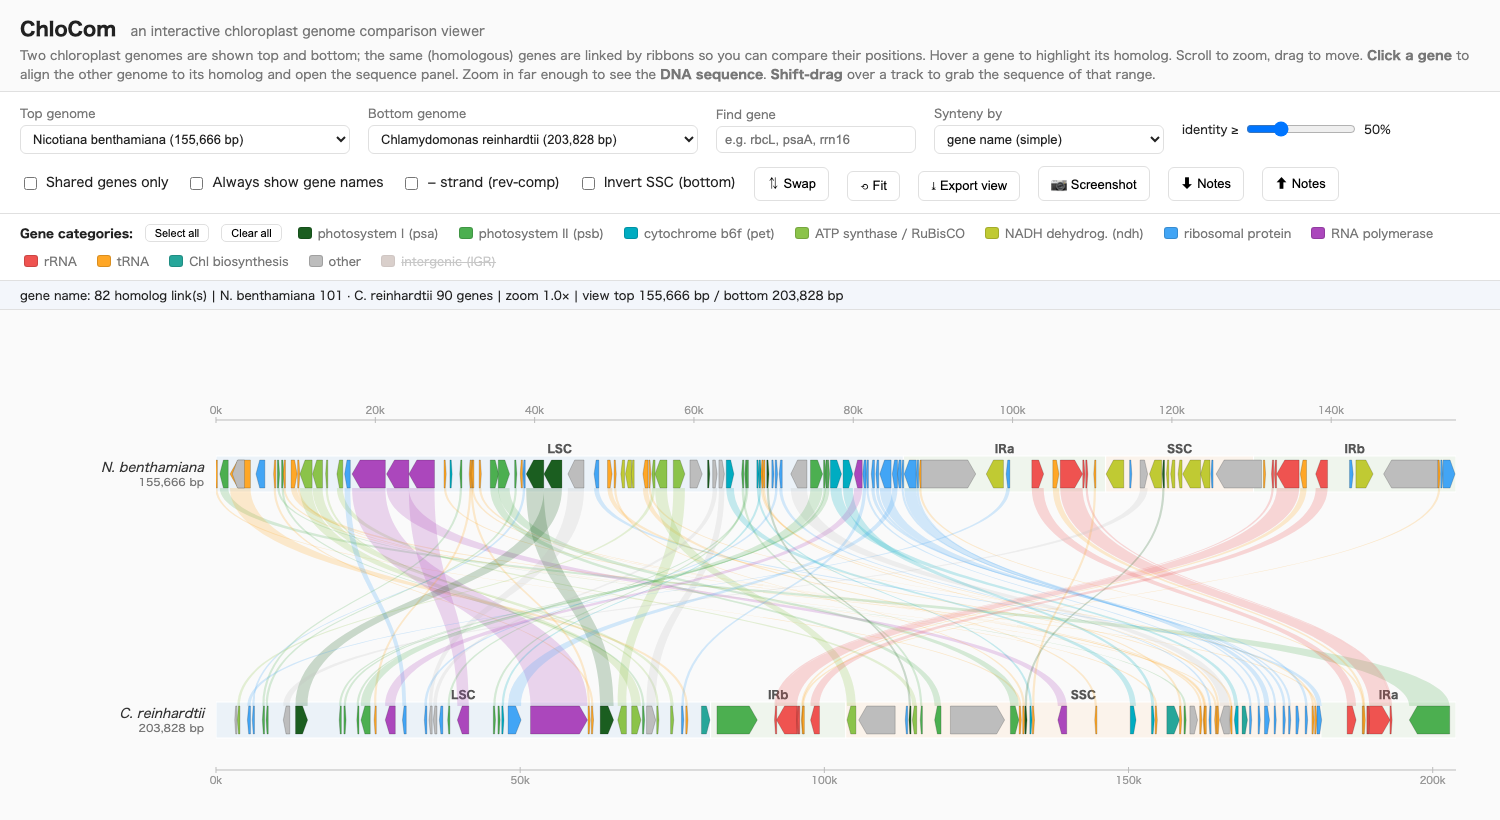
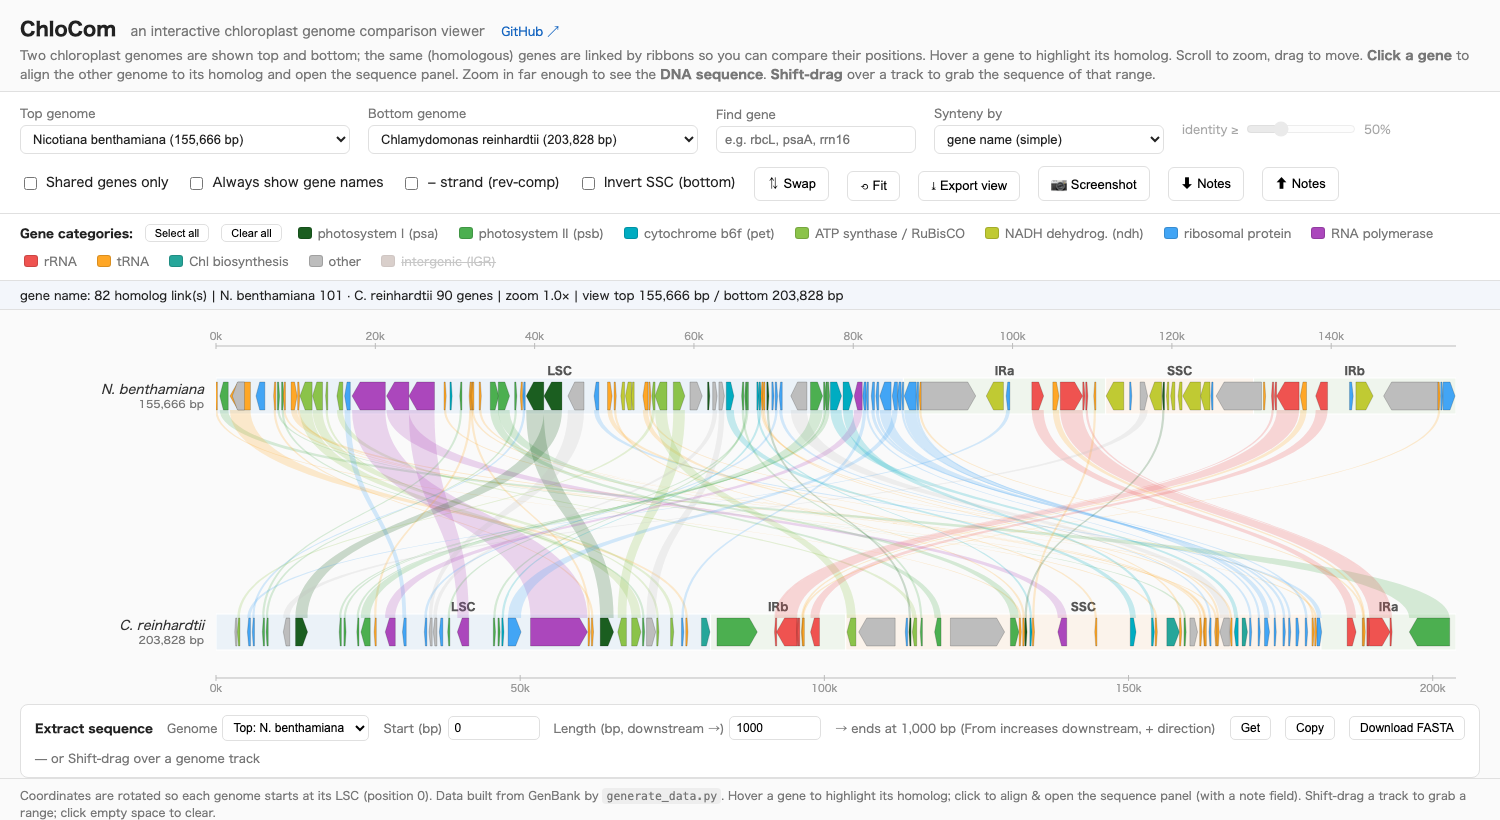
Add files via upload

diff --git a/app.js b/app.js
@@ -24,8 +24,9 @@ const REGION_COLOR = { LSC: '#cfe2f3', SSC: '#fce5cd', IRa: '#d9ead3', IRb: '#d9
 const BASE_COLOR = { A: '#2e7d32', C: '#1565c0', G: '#ef6c00', T: '#c62828', U: '#c62828', N: '#999' };
 const COMP = { A: 'T', T: 'A', G: 'C', C: 'G', U: 'A', N: 'N' };
 
-const L = { ml: 196, mr: 24, topAxisY: 102, topSeqY: 122, topY: 142, geneH: 28,
-            botY: 388, botSeqY: 430, botAxisY: 452 };
+const L = { ml: 196, mr: 24, topAxisY: 28, topSeqY: 48, topY: 64, geneH: 28,
+            botY: 300, botSeqY: 342, botAxisY: 360 };
+const SVG_H = 380;             // SVG の高さ（上下の余白を詰めた）
 const SEQ_MIN_PX = 7;
 const shortName = d => d.replace(/\s*\(.*/, '').replace(/^(\w)\w+\s+/, '$1. ');
 
@@ -154,7 +155,7 @@ function ribbonPath(xt0, xt1, xb0, xb1, ytop, ybot) {
 function render() {
   computeLinks();
   while (svg.firstChild) svg.removeChild(svg.firstChild);
-  const W = svg.clientWidth, H = 560;
+  const W = svg.clientWidth, H = SVG_H;
   svg.setAttribute('viewBox', `0 0 ${W} ${H}`);
   const top = GENOME_DATA[state.top], bot = GENOME_DATA[state.bot];
   if (!top || !bot) return;
@@ -439,7 +440,7 @@ const SVG_CSS = `
 .base{font:600 12px ui-monospace,monospace}.selrect{fill:rgba(21,101,192,.16);stroke:#1565c0;stroke-width:1}
 .notemark{font:11px sans-serif;fill:#e65100}text{font-family:sans-serif}`;
 function saveScreenshot() {
-  const W = svg.clientWidth, H = 560, scale = 2;
+  const W = svg.clientWidth, H = SVG_H, scale = 2;
   const clone = svg.cloneNode(true);
   clone.setAttribute('xmlns', NS); clone.setAttribute('width', W); clone.setAttribute('height', H);
   const st = document.createElementNS(NS, 'style'); st.textContent = SVG_CSS; clone.insertBefore(st, clone.firstChild);

diff --git a/style.css b/style.css
@@ -47,7 +47,7 @@ footer .ghlink { white-space: nowrap; }
 #statusbar { padding: 5px 20px; font-size: 12px; color: var(--text); background: #f3f6fb; border-bottom: 1px solid var(--line); }
 
 #viewer { position: relative; padding: 8px 20px 0; }
-#svg { width: 100%; height: 560px; display: block; cursor: grab; user-select: none; touch-action: none; }
+#svg { width: 100%; height: 380px; display: block; cursor: grab; user-select: none; touch-action: none; }
 #svg.dragging { cursor: grabbing; }
 
 .tooltip {